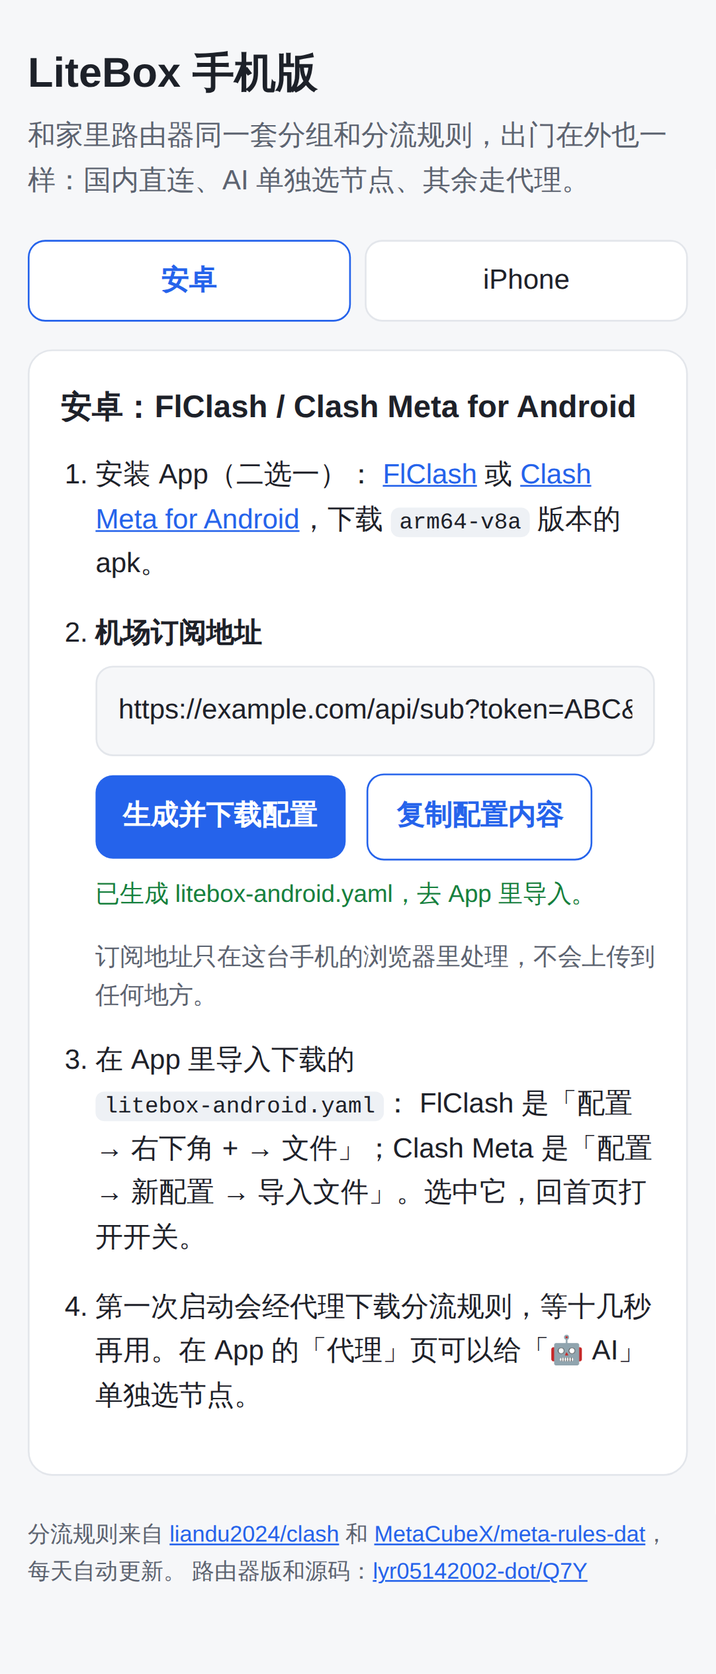
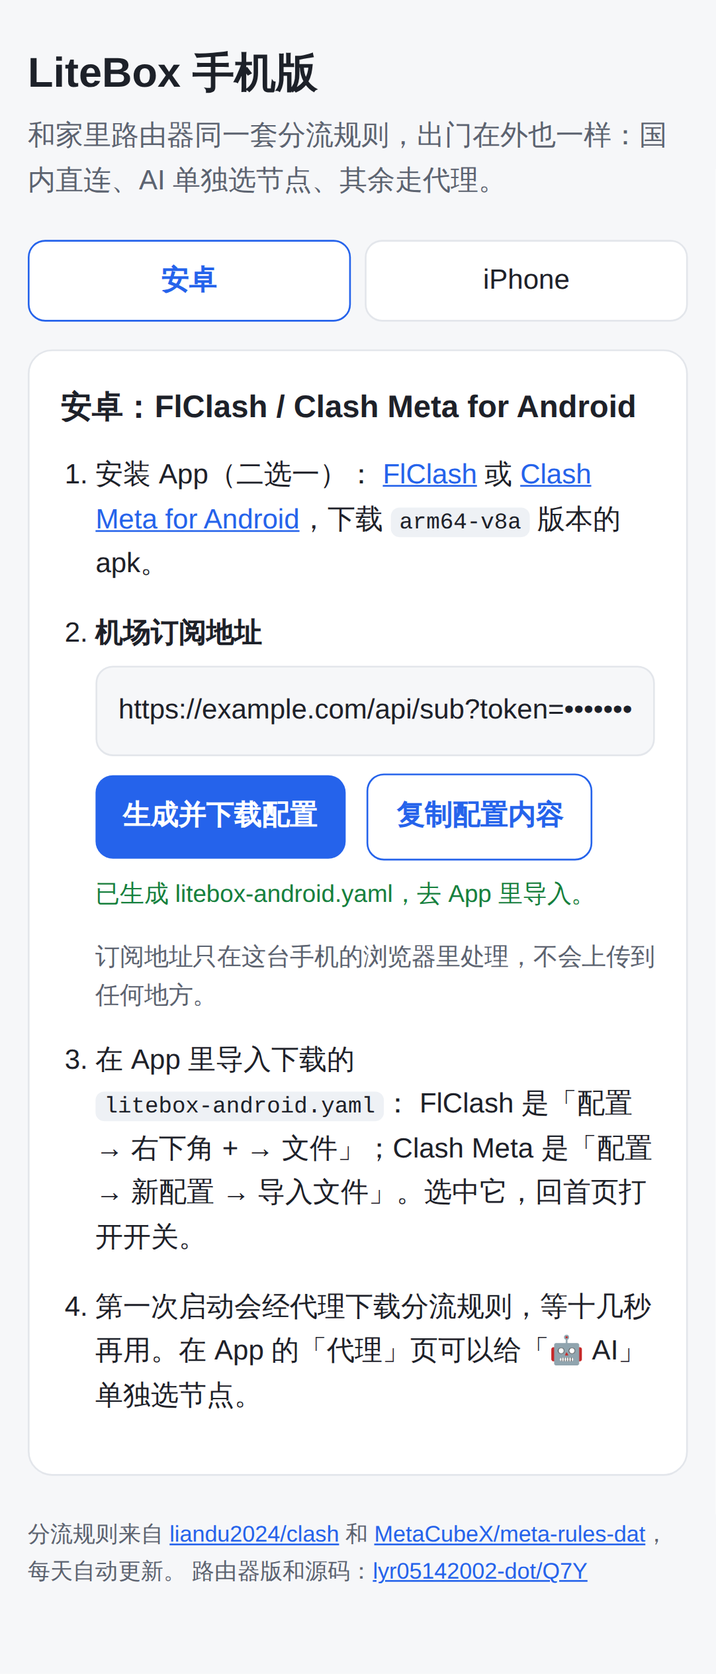
Claude latency card and per-node stability view; v0.6.1
- overview tests Claude instead of OpenAI, via the Claude group
- node stability: every node's success rate, average latency and last
  20 results against claude.ai (or Google / GitHub), using the core's
  group delay test and its per-URL history; marks the node in use and
  the most stable one, with a one-click switch
- CI checks that the page scripts parse and the LuCI JSON is valid
- refreshed screenshots; SSH fingerprint, sample secret and sample
  subscription in the tutorial images are masked

Claude-Session: https://claude.ai/code/session_01MXBvMrnfSJPeug5hYk6ttb

Changed region(s): [[0.0305, 0.0625, 0.9455, 0.125], [0.793, 0.4062, 0.8845, 0.4375]]

diff --git a/files/panel.html b/files/panel.html
@@ -108,6 +108,26 @@ section.box { background: var(--card); border: 1px solid var(--line); border-rad
 .chain .ar { color: var(--sub); }
 .tip { background: var(--bg); border-radius: 10px; padding: 10px 12px; color: var(--sub); font-size: 12.5px; margin-top: 12px; }
 .hide { display: none !important; }
+.seg { display: inline-flex; background: var(--bg); border-radius: 9px; padding: 3px; gap: 2px; }
+.seg button { border: 0; background: none; color: var(--sub); font: inherit; padding: 3px 12px; border-radius: 7px; cursor: pointer; }
+.seg button.on { background: var(--card); color: var(--text); font-weight: 700; box-shadow: 0 1px 2px rgba(0,0,0,.08); }
+.stab-sum { color: var(--sub); font-size: 13px; margin-bottom: 12px; line-height: 1.8; }
+.stab-sum b { color: var(--text); }
+.nodes { display: grid; grid-template-columns: repeat(2, 1fr); gap: 10px; }
+@media (max-width: 760px) { .nodes { grid-template-columns: 1fr; } }
+.node { border: 1px solid var(--line); border-radius: 12px; padding: 10px 12px; display: grid; grid-template-columns: 1fr auto; gap: 4px 10px; align-items: center; }
+.node.cur { border-color: var(--green); background: var(--green-bg); }
+.node .nm { font-weight: 600; min-width: 0; overflow: hidden; text-overflow: ellipsis; white-space: nowrap; }
+.node .nv { color: var(--sub); font-size: 12.5px; grid-column: 1 / -1; }
+.node .nv b { color: var(--text); }
+.node .btn { padding: 2px 10px; font-size: 12.5px; }
+.dots { display: flex; gap: 3px; flex-wrap: wrap; grid-column: 1 / -1; }
+.dots i { width: 11px; height: 11px; border-radius: 50%; background: var(--green); display: inline-block; }
+.dots i.mid { background: var(--amber); }
+.dots i.bad { background: var(--red); }
+.dots i.none { background: var(--line); }
+.site.pick { cursor: pointer; }
+.site.pick.on { border-color: var(--green); }
 section.box.sub { border: 2px solid var(--green); }
 section.box.sub.bad { border-color: var(--red); }
 .sub .row { display: flex; gap: 16px; align-items: center; flex-wrap: wrap; }
@@ -180,6 +200,19 @@ section.box.sub.bad { border-color: var(--red); }
 			</div>
 		</section>
 
+		<section class="box" id="stab">
+			<div class="hd">
+				<h2>节点稳定性</h2>
+				<div class="seg" id="stab-tabs"></div>
+				<label class="sw"><input type="checkbox" id="stab-auto" checked>页面开着时每 10 分钟测一次</label>
+				<div class="grow"></div>
+				<button class="btn" id="stab-test">测试全部节点</button>
+			</div>
+			<div class="stab-sum" id="stab-sum">读取中…</div>
+			<div class="nodes" id="stab-list"></div>
+			<div class="tip" id="stab-tip"></div>
+		</section>
+
 		<section class="box">
 			<div class="hd">
 				<h2>分流统计</h2>
@@ -236,11 +269,11 @@ const store = {
 	set(k, v) { try { localStorage.setItem("litebox." + k, JSON.stringify(v)); } catch (e) {} },
 };
 
-// 图标（Simple Icons，CC0）和分组用的简单图形
+// 图标：Simple Icons（CC0）；Claude 来自 LobeHub lobe-icons（MIT）
 const ICON = {
 	baidu: '<svg viewBox="0 0 24 24"><path fill="#2932e1" d="M9.154 0C7.71 0 6.54 1.658 6.54 3.707c0 2.051 1.171 3.71 2.615 3.71 1.446 0 2.614-1.659 2.614-3.71C11.768 1.658 10.6 0 9.154 0zm7.025.594C14.86.58 13.347 2.589 13.2 3.927c-.187 1.745.25 3.487 2.179 3.735 1.933.25 3.175-1.806 3.422-3.364.252-1.555-.995-3.364-2.362-3.674a1.218 1.218 0 0 0-.261-.03zM3.582 5.535a2.811 2.811 0 0 0-.156.008c-2.118.19-2.428 3.24-2.428 3.24-.287 1.41.686 4.425 3.297 3.864 2.617-.561 2.262-3.68 2.183-4.362-.125-1.018-1.292-2.773-2.896-2.75zm16.534 1.753c-2.308 0-2.617 2.119-2.617 3.616 0 1.43.121 3.425 2.988 3.362 2.867-.063 2.553-3.238 2.553-3.988 0-.745-.62-2.99-2.924-2.99zm-8.264 2.478c-1.424.014-2.708.925-3.323 1.947-1.118 1.868-2.863 3.05-3.112 3.363-.25.309-3.61 2.116-2.864 5.42.746 3.301 3.365 3.237 3.365 3.237s1.93.19 4.171-.31c2.24-.495 4.17.123 4.17.123s5.233 1.748 6.665-1.616c1.43-3.364-.808-5.109-.808-5.109s-2.99-2.306-4.736-4.798c-1.072-1.665-2.348-2.268-3.528-2.257zm-2.234 3.84l1.542.024v8.197H7.758c-1.47-.291-2.055-1.292-2.13-1.462-.072-.173-.488-.976-.268-2.343.635-2.049 2.447-2.196 2.447-2.196h1.81zm3.964 2.39v3.881c.096.413.612.488.612.488h1.614v-4.343h1.689v5.782h-3.915c-1.517-.39-1.59-1.465-1.59-1.465v-4.317zm-5.458 1.147c-.66.197-.978.708-1.05.928-.076.22-.247.78-.1 1.269.294 1.095 1.248 1.144 1.248 1.144h1.37v-3.34z"/></svg>',
 	google: '<svg viewBox="0 0 24 24"><path fill="#4285f4" d="M12.48 10.92v3.28h7.84c-.24 1.84-.853 3.187-1.787 4.133-1.147 1.147-2.933 2.4-6.053 2.4-4.827 0-8.6-3.893-8.6-8.72s3.773-8.72 8.6-8.72c2.6 0 4.507 1.027 5.907 2.347l2.307-2.307C18.747 1.44 16.133 0 12.48 0 5.867 0 .307 5.387.307 12s5.56 12 12.173 12c3.573 0 6.267-1.173 8.373-3.36 2.16-2.16 2.84-5.213 2.84-7.667 0-.76-.053-1.467-.173-2.053H12.48z"/></svg>',
-	ai: '<svg viewBox="0 0 24 24"><path fill="currentColor" fill-rule="evenodd" d="M9.205 8.658v-2.26c0-.19.072-.333.238-.428l4.543-2.616c.619-.357 1.356-.523 2.117-.523 2.854 0 4.662 2.212 4.662 4.566 0 .167 0 .357-.024.547l-4.71-2.759a.797.797 0 00-.856 0l-5.97 3.473zm10.609 8.8V12.06c0-.333-.143-.57-.429-.737l-5.97-3.473 1.95-1.118a.433.433 0 01.476 0l4.543 2.617c1.309.76 2.189 2.378 2.189 3.948 0 1.808-1.07 3.473-2.76 4.163zM7.802 12.703l-1.95-1.142c-.167-.095-.239-.238-.239-.428V5.899c0-2.545 1.95-4.472 4.591-4.472 1 0 1.927.333 2.712.928L8.23 5.067c-.285.166-.428.404-.428.737v6.898zM12 15.128l-2.795-1.57v-3.33L12 8.658l2.795 1.57v3.33L12 15.128zm1.796 7.23c-1 0-1.927-.332-2.712-.927l4.686-2.712c.285-.166.428-.404.428-.737v-6.898l1.974 1.142c.167.095.238.238.238.428v5.233c0 2.545-1.974 4.472-4.614 4.472zm-5.637-5.303l-4.544-2.617c-1.308-.761-2.188-2.378-2.188-3.948A4.482 4.482 0 014.21 6.327v5.423c0 .333.143.571.428.738l5.947 3.449-1.95 1.118a.432.432 0 01-.476 0zm-.262 3.9c-2.688 0-4.662-2.021-4.662-4.519 0-.19.024-.38.047-.57l4.686 2.71c.286.167.571.167.856 0l5.97-3.448v2.26c0 .19-.07.333-.237.428l-4.543 2.616c-.619.357-1.356.523-2.117.523zm5.899 2.83a5.947 5.947 0 005.827-4.756C22.287 18.339 24 15.84 24 13.296c0-1.665-.713-3.282-1.998-4.448.119-.5.19-.999.19-1.498 0-3.401-2.759-5.947-5.946-5.947-.642 0-1.26.095-1.88.31A5.962 5.962 0 0010.205 0a5.947 5.947 0 00-5.827 4.757C1.713 5.447 0 7.945 0 10.49c0 1.666.713 3.283 1.998 4.448-.119.5-.19 1-.19 1.499 0 3.401 2.759 5.946 5.946 5.946.642 0 1.26-.095 1.88-.309a5.96 5.96 0 004.162 1.713z"/></svg>',
+	claude: '<svg viewBox="0 0 24 24"><path fill="#d97757" d="M4.709 15.955l4.72-2.647.08-.23-.08-.128H9.2l-.79-.048-2.698-.073-2.339-.097-2.266-.122-.571-.121L0 11.784l.055-.352.48-.321.686.06 1.52.103 2.278.158 1.652.097 2.449.255h.389l.055-.157-.134-.098-.103-.097-2.358-1.596-2.552-1.688-1.336-.972-.724-.491-.364-.462-.158-1.008.656-.722.881.06.225.061.893.686 1.908 1.476 2.491 1.833.365.304.145-.103.019-.073-.164-.274-1.355-2.446-1.446-2.49-.644-1.032-.17-.619a2.97 2.97 0 01-.104-.729L6.283.134 6.696 0l.996.134.42.364.62 1.414 1.002 2.229 1.555 3.03.456.898.243.832.091.255h.158V9.01l.128-1.706.237-2.095.23-2.695.08-.76.376-.91.747-.492.584.28.48.685-.067.444-.286 1.851-.559 2.903-.364 1.942h.212l.243-.242.985-1.306 1.652-2.064.73-.82.85-.904.547-.431h1.033l.76 1.129-.34 1.166-1.064 1.347-.881 1.142-1.264 1.7-.79 1.36.073.11.188-.02 2.856-.606 1.543-.28 1.841-.315.833.388.091.395-.328.807-1.969.486-2.309.462-3.439.813-.042.03.049.061 1.549.146.662.036h1.622l3.02.225.79.522.474.638-.079.485-1.215.62-1.64-.389-3.829-.91-1.312-.329h-.182v.11l1.093 1.068 2.006 1.81 2.509 2.33.127.578-.322.455-.34-.049-2.205-1.657-.851-.747-1.926-1.62h-.128v.17l.444.649 2.345 3.521.122 1.08-.17.353-.608.213-.668-.122-1.374-1.925-1.415-2.167-1.143-1.943-.14.08-.674 7.254-.316.37-.729.28-.607-.461-.322-.747.322-1.476.389-1.924.315-1.53.286-1.9.17-.632-.012-.042-.14.018-1.434 1.967-2.18 2.945-1.726 1.845-.414.164-.717-.37.067-.662.401-.589 2.388-3.036 1.44-1.882.93-1.086-.006-.158h-.055L4.132 18.56l-1.13.146-.487-.456.061-.746.231-.243 1.908-1.312-.006.006z"/></svg>',
 	github: '<svg viewBox="0 0 24 24"><path fill="currentColor" d="M12 .297c-6.63 0-12 5.373-12 12 0 5.303 3.438 9.8 8.205 11.385.6.113.82-.258.82-.577 0-.285-.01-1.04-.015-2.04-3.338.724-4.042-1.61-4.042-1.61C4.422 18.07 3.633 17.7 3.633 17.7c-1.087-.744.084-.729.084-.729 1.205.084 1.838 1.236 1.838 1.236 1.07 1.835 2.809 1.305 3.495.998.108-.776.417-1.305.76-1.605-2.665-.3-5.466-1.332-5.466-5.93 0-1.31.465-2.38 1.235-3.22-.135-.303-.54-1.523.105-3.176 0 0 1.005-.322 3.3 1.23.96-.267 1.98-.399 3-.405 1.02.006 2.04.138 3 .405 2.28-1.552 3.285-1.23 3.285-1.23.645 1.653.24 2.873.12 3.176.765.84 1.23 1.91 1.23 3.22 0 4.61-2.805 5.625-5.475 5.92.42.36.81 1.096.81 2.22 0 1.606-.015 2.896-.015 3.286 0 .315.21.69.825.57C20.565 22.092 24 17.592 24 12.297c0-6.627-5.373-12-12-12"/></svg>',
 	youtube: '<svg viewBox="0 0 24 24"><path fill="#ff0000" d="M23.498 6.186a3.016 3.016 0 0 0-2.122-2.136C19.505 3.545 12 3.545 12 3.545s-7.505 0-9.377.505A3.017 3.017 0 0 0 .502 6.186C0 8.07 0 12 0 12s0 3.93.502 5.814a3.016 3.016 0 0 0 2.122 2.136c1.871.505 9.376.505 9.376.505s7.505 0 9.377-.505a3.015 3.015 0 0 0 2.122-2.136C24 15.93 24 12 24 12s0-3.93-.502-5.814zM9.545 15.568V8.432L15.818 12l-6.273 3.568z"/></svg>',
 };
@@ -249,7 +282,7 @@ const ICON = {
 const SITES = [
 	{ id: "baidu", name: "百度", url: "https://www.baidu.com", via: ["DIRECT"] },
 	{ id: "google", name: "Google", url: "https://www.google.com/generate_204", via: ["Google", "🚀 节点选择", "GLOBAL"] },
-	{ id: "ai", name: "OpenAI", url: "https://chatgpt.com/favicon.ico", via: ["ChatGPT", "🤖 AI", "🚀 节点选择", "GLOBAL"] },
+	{ id: "claude", name: "Claude", url: "https://claude.ai", via: ["Claude", "🤖 AI", "🚀 节点选择", "GLOBAL"] },
 	{ id: "github", name: "GitHub", url: "https://github.com", via: ["GitHub", "🚀 节点选择", "GLOBAL"] },
 ];
 
@@ -330,6 +363,7 @@ async function start() {
 	setInterval(() => { if (!document.hidden) loadTraffic(); }, 300000);
 	loadSub();
 	setInterval(() => { if (!document.hidden) loadSub(); }, 60000);
+	stabInit();
 	$("#sub-update").onclick = async () => {
 		$("#sub-update").disabled = true;
 		$("#sub-state").textContent = "正在更新…";
@@ -373,12 +407,13 @@ async function loadSub() {
 // ---------- 站点延迟 ----------
 function renderSites() {
 	$("#sites").innerHTML = SITES.map((s) => `
-		<div class="card site" id="site-${s.id}">
+		<div class="card site${STAB[s.id] ? " pick" : ""}" id="site-${s.id}"${STAB[s.id] ? ` title="点一下看每个节点访问 ${esc(s.name)} 的稳定性"` : ""}>
 			<div class="ic">${ICON[s.id]}</div>
 			<div class="spark"></div>
 			<div class="val"><small>${esc(s.name)}</small><span>-</span></div>
 		</div>`).join("");
 	SITES.forEach(drawSite);
+	SITES.forEach((s) => { if (STAB[s.id]) $("#site-" + s.id).onclick = () => { stabTab(s.id); $("#stab").scrollIntoView({ behavior: "smooth" }); }; });
 }
 
 function drawSite(s) {
@@ -418,6 +453,141 @@ async function testSites() {
 	}));
 	testing = false;
 	$("#testnow").disabled = false;
+}
+
+// ---------- 节点稳定性：每个节点访问某个网站的成功率和延迟 ----------
+// 用内核的分组测速接口让分组里每个节点各访问一次（只取响应头）；内核按网址给每个节点记最近 10 次结果，
+// 换设备打开也看得到。这台浏览器再多存一些（每个节点最多 30 次），看得更长
+const STAB = {
+	claude: { name: "Claude", url: "https://claude.ai", via: ["Claude", "🤖 AI", "🚀 节点选择", "GLOBAL"] },
+	google: { name: "Google", url: "https://www.google.com/generate_204", via: ["Google", "🚀 节点选择", "GLOBAL"] },
+	github: { name: "GitHub", url: "https://github.com", via: ["GitHub", "🚀 节点选择", "GLOBAL"] },
+};
+const STAB_EVERY = 10 * 60 * 1000;
+let stabCur = "claude", stabBusy = false;
+
+function stabInit() {
+	stabCur = STAB[store.get("stab.tab", "claude")] ? store.get("stab.tab", "claude") : "claude";
+	$("#stab-tabs").innerHTML = Object.entries(STAB).map(([id, t]) => `<button data-id="${id}">${esc(t.name)}</button>`).join("");
+	$("#stab-tabs").onclick = (e) => { const id = e.target.dataset && e.target.dataset.id; if (id) stabTab(id); };
+	$("#stab-auto").checked = store.get("stab.auto", true);
+	$("#stab-auto").onchange = () => store.set("stab.auto", $("#stab-auto").checked);
+	$("#stab-test").onclick = () => stabTest();
+	$("#stab-list").onclick = async (e) => {
+		const name = e.target.dataset && e.target.dataset.use;
+		if (!name) return;
+		e.target.disabled = true;
+		try { await api(`../../proxies/${encodeURIComponent(stabGroup())}`, { method: "PUT", headers: { "Content-Type": "application/json" }, body: JSON.stringify({ name }) }); }
+		catch (err) { alert("切换失败：" + err.message); }
+		stabLoad();
+	};
+	stabTab(stabCur);
+	setInterval(() => { if ($("#stab-auto").checked && !document.hidden) stabMaybeTest(); }, 60000);
+}
+
+function stabGroup() { return STAB[stabCur].via.find((g) => groups.has(g)) || "GLOBAL"; }
+
+async function stabTab(id) {
+	stabCur = id;
+	store.set("stab.tab", id);
+	document.querySelectorAll("#stab-tabs button").forEach((b) => b.classList.toggle("on", b.dataset.id === id));
+	SITES.forEach((s) => { const el = $("#site-" + s.id); if (el) el.classList.toggle("on", s.id === id); });
+	const t = STAB[id];
+	$("#stab-tip").innerHTML = `每次测试让「${esc(stabGroup())}」分组里的每个节点各访问一次 <span class="mono">${esc(t.url)}</span>，只取响应头，每个节点几 KB 流量。` +
+		"点「用这个」会把这个分组直接切到那个节点（不再跟随上级分组，想恢复在面板里选回去）。" +
+		"绿色正常，黄色慢（超过 1 秒），红色失败，灰色还没测。";
+	await stabLoad();
+	if ($("#stab-auto").checked) stabMaybeTest();
+}
+
+// 合并内核里的记录和本机存的记录，返回 { 节点名: [[时间毫秒, 延迟], ...] }
+function stabMerge(nodes) {
+	const key = "stab." + stabCur, url = STAB[stabCur].url;
+	const saved = store.get(key, {});
+	const out = {};
+	for (const n of nodes) {
+		const list = (saved[n.name] || []).slice();
+		const have = new Set(list.map((x) => x[0]));
+		const h = (n.extra && n.extra[url] && n.extra[url].history) || [];
+		for (const x of h) {
+			const t = Date.parse(x.time);
+			if (t && !have.has(t)) list.push([t, x.delay || 0]);
+		}
+		list.sort((a, b) => a[0] - b[0]);
+		out[n.name] = list.slice(-30);
+	}
+	store.set(key, out);
+	return out;
+}
+
+let stabLast = 0;
+async function stabLoad() {
+	let p, all;
+	try { [p, all] = await Promise.all([api("../../providers/proxies/sub"), api("../../proxies")]); }
+	catch (e) { $("#stab-sum").textContent = "读取节点失败：" + e.message; return; }
+	const nodes = p.proxies || [];
+	const data = stabMerge(nodes);
+	const prox = all.proxies || {};
+	groups = new Set(Object.keys(prox));
+	// 分组现在实际用的节点（分组套分组时一路找下去）
+	const group = stabGroup();
+	let cur = group, guard = 0;
+	while (prox[cur] && prox[cur].now && guard++ < 8) cur = prox[cur].now;
+	stabLast = 0;
+	const rows = nodes.map((n) => {
+		const h = data[n.name] || [];
+		const ok = h.filter((x) => x[1] > 0);
+		if (h.length) stabLast = Math.max(stabLast, h[h.length - 1][0]);
+		return {
+			name: n.name, h,
+			rate: h.length ? ok.length / h.length : -1,
+			avg: ok.length ? Math.round(ok.reduce((a, x) => a + x[1], 0) / ok.length) : 0,
+			last: h.length ? h[h.length - 1][1] : null,
+		};
+	});
+	rows.sort((a, b) => (b.rate - a.rate) || ((a.avg || 1e9) - (b.avg || 1e9)) || a.name.localeCompare(b.name));
+	const pct = (r) => (r < 0 ? "-" : Math.round(r * 100) + "%");
+	const tested = rows.filter((r) => r.rate >= 0);
+	const okNow = rows.filter((r) => r.last > 0).length;
+	const curRow = rows.find((r) => r.name === cur);
+	const best = tested.find((r) => r.rate > 0);
+	const t = STAB[stabCur];
+	let sum = `共 <b>${rows.length}</b> 个节点`;
+	if (tested.length) sum += `，最近一次 <b>${okNow}</b> 个能打开 ${esc(t.name)}`;
+	if (stabLast) sum += `（${new Date(stabLast).toLocaleTimeString("zh-CN", { hour12: false })} 测的）`;
+	sum += `。<br>${esc(t.name)} 现在走：<b>${esc(cur)}</b>`;
+	if (curRow && curRow.rate >= 0) sum += `（成功率 ${pct(curRow.rate)}，平均 ${curRow.avg || "-"} ms）`;
+	if (best && best.name !== cur) sum += `；最稳的是 <b>${esc(best.name)}</b>（${pct(best.rate)}，平均 ${best.avg} ms）`;
+	if (!tested.length) sum += "。还没测过，点右上角「测试全部节点」。";
+	$("#stab-sum").innerHTML = sum;
+	$("#stab-list").innerHTML = rows.map((r) => {
+		const dots = r.h.slice(-20).map((x) => `<i class="${x[1] > 0 ? (x[1] > 1000 ? "mid" : "") : "bad"}" title="${new Date(x[0]).toLocaleString("zh-CN", { hour12: false })}  ${x[1] > 0 ? x[1] + " ms" : "失败"}"></i>`).join("") ||
+			'<i class="none"></i>'.repeat(10);
+		const isCur = r.name === cur;
+		return `<div class="node${isCur ? " cur" : ""}">
+			<div class="nm">${esc(r.name)}${isCur ? ' <span class="tag g">当前</span>' : ""}</div>
+			${isCur ? "<span></span>" : `<button class="btn" data-use="${esc(r.name)}">用这个</button>`}
+			<div class="dots">${dots}</div>
+			<div class="nv">成功率 <b>${pct(r.rate)}</b>（${r.h.filter((x) => x[1] > 0).length}/${r.h.length} 次） · 平均 <b>${r.avg ? r.avg + " ms" : "-"}</b> · 最近 ${r.last === null ? "-" : r.last > 0 ? r.last + " ms" : '<span style="color:var(--red)">失败</span>'}</div>
+		</div>`;
+	}).join("") || '<div class="empty">订阅里还没有节点</div>';
+}
+
+function stabMaybeTest() { if (Date.now() - stabLast > STAB_EVERY) stabTest(); }
+
+async function stabTest() {
+	if (stabBusy) return;
+	stabBusy = true;
+	const btn = $("#stab-test");
+	btn.disabled = true;
+	btn.textContent = "测试中…";
+	const t = STAB[stabCur];
+	try { await api(`../../group/${encodeURIComponent(stabGroup())}/delay?url=${encodeURIComponent(t.url)}&timeout=5000`); }
+	catch (e) { /* 全部失败时接口返回错误，结果照样记在每个节点上 */ }
+	await stabLoad();
+	btn.disabled = false;
+	btn.textContent = "测试全部节点";
+	stabBusy = false;
 }
 
 // ---------- 实时曲线（一条 /connections 推送就够：总量、连接、内存都有） ----------

diff --git a/docs/img/src/03-install.html b/docs/img/src/03-install.html
@@ -30,9 +30,9 @@
 
 [litebox] <span class="g">安装完成，已启动。</span>
 
-  一键登录面板：<span class="y">http://192.168.8.1:9090/ui/#/setup?hostname=192.168.8.1&amp;port=9090&amp;secret=a1b2c3d4e5f6a7b8c9d0e1f2</span>
-  （复制到浏览器打开即可。手动登录时：主机 192.168.8.1，端口 9090，密码 a1b2c3d4e5f6a7b8c9d0e1f2）
-  概览和路由测试：http://192.168.8.1:9090/ui/litebox/#secret=a1b2c3d4e5f6a7b8c9d0e1f2
+  一键登录面板：<span class="y">http://192.168.8.1:9090/ui/#/setup?hostname=192.168.8.1&amp;port=9090&amp;secret=a1b2••••••••••••••••••••</span>
+  （复制到浏览器打开即可。手动登录时：主机 192.168.8.1，端口 9090，密码 a1b2••••••••••••••••••••）
+  概览和路由测试：http://192.168.8.1:9090/ui/litebox/#secret=a1b2••••••••••••••••••••
   改订阅、看状态：路由器后台 → 服务 → LiteBox
 <span class="ann">⬆ <b>复制「一键登录面板」这条链接</b>，粘贴到手机或电脑浏览器，进入面板（第 3 步）</span></pre>
 </div>

diff --git a/docs/img/src/02-login.html b/docs/img/src/02-login.html
@@ -16,7 +16,7 @@
     <div class="term win rel"><div class="bar">Windows PowerShell</div>
 <pre>PS C:\Users\你&gt; <span class="w">ssh root@192.168.8.1</span>
 The authenticity of host '192.168.8.1 (192.168.8.1)' can't be established.
-ED25519 key fingerprint is SHA256:qdIR+KAlqZI+…
+ED25519 key fingerprint is SHA256:••••••••••••••••（每台路由器不一样）
 Are you sure you want to continue connecting (yes/no/[fingerprint])? <span class="w">yes</span>
 <span class="ann">⬆ 输入 <b>yes</b> 回车</span>
 root@192.168.8.1's password: <span class="ann">⬅ 输入后台密码，<b>输入时不显示</b>，输完回车</span>

diff --git a/docs/img/src/offline-1-download.html b/docs/img/src/offline-1-download.html
@@ -18,7 +18,7 @@
 <p style="margin:0 0 10px">打开仓库首页右侧的 <b>Releases</b>（或 github.com/lyr05142002-dot/Q7Y/releases），在最新版本的 <b>Assets</b> 里下载 <b>litebox-arm64-offline.zip</b>：</p>
 <div class="rel">
 <div class="gh">
-  <div class="title"><b>LiteBox v0.6.0</b><span class="latest">Latest</span></div>
+  <div class="title"><b>LiteBox v0.6.1</b><span class="latest">Latest</span></div>
   <div class="assets">
     <div class="hd">Assets<span>8</span></div>
     <div class="a hl"><span class="n">📦 litebox-arm64-offline.zip</span><span class="h mono">内核 + 面板 + 脚本</span><span class="s">22.5 MB</span></div>

diff --git a/README.md b/README.md
@@ -25,7 +25,7 @@
 - **国内流量不进内核**：国内网站直接从 WAN 出去，不占代理的 CPU，还能用上路由器的硬件加速；境外 TCP 走 iptables 转发，比 TUN 省约 70% CPU
 - **省内存**：只有一个 mihomo 进程，常驻约 50MB，大流量下也不涨；超过上限自动重启
 - **分流规则现成的**：用[视频作者](https://youtu.be/G_7AmjfSRQ8)的[域名集](https://github.com/liandu2024/clash/tree/main/list)，每天自动更新；ChatGPT / Claude / Gemini / Grok 等走单独的 🤖 AI 分组
-- **概览和路由测试页**：四个站点的延迟走势、连接 / 内存 / 流量实时曲线、规则命中统计、按月流量；输入域名就能看它实际走哪条线路、DNS 怎么解析、命中哪条规则
+- **概览和路由测试页**：四个站点的延迟走势、每个节点访问 Claude 的稳定性、连接 / 内存 / 流量实时曲线、规则命中统计、按月流量；输入域名就能看它实际走哪条线路、DNS 怎么解析、命中哪条规则
 - **手机版**：安卓、iPhone 用同一套规则，出门在外也一样分流
 - **出问题能自救**：`litebox doctor` 一键自检、`litebox direct` 一键恢复直连；内核起不来时看门狗自动恢复 DNS，不会全家断网
 - **下载安全**：内核和面板锁定版本、校验 SHA256；每次发布前自动在 OpenWrt 21.02 里完整装一遍测试
@@ -210,12 +210,17 @@ litebox sub '你的订阅地址'
 
 安装完还会显示一个**概览和路由测试**链接（`litebox panel` 也能看到），形如 `http://192.168.8.1:9090/ui/litebox/#secret=面板密码`。面板顶部的「节点 · 连接」可以跳回 zashboard。
 
-- **概览**：百度 / Google / OpenAI / GitHub 的延迟和最近 24 次走势（分别经直连和 Google、ChatGPT、GitHub 分组测，和平时访问走同一条线）；连接数、内存、上下行速率的实时曲线；规则命中排行和代理 / 直连占比；按月、按天的流量
+- **概览**：机场订阅卡片（节点数、套餐流量、到期日）；百度 / Google / Claude / GitHub 的延迟和最近 24 次走势（分别经直连和 Google、Claude、GitHub 分组测，和平时访问走同一条线）；连接数、内存、上下行速率的实时曲线；规则命中排行和代理 / 直连占比；按月、按天的流量
+- **节点稳定性**：每个节点访问 Claude（也能切到 Google、GitHub）的成功率、平均延迟和最近 20 次结果，一个点一次：绿色正常、黄色慢（超过 1 秒）、红色失败。标出当前在用的节点和最稳的节点，点「用这个」就把 Claude 分组切过去。页面开着时每 10 分钟自动测一次，也可以点「测试全部节点」；点概览里的 Claude 卡片也会跳到这里
 - **路由测试**：输入域名，浏览器真实访问一次，页面从内核记录里找出这次访问的 DNS 方式、进入内核的方式、命中的规则和完整线路。正在看页面的这台手机或电脑本身就是局域网终端，所以不用另外模拟设备
 
 ![路由测试](docs/img/13-route-test.png)
 
-<details><summary>概览页截图（测试环境只放行了 GitHub，所以另外三个站点显示超时）</summary>
+![节点稳定性](docs/img/16-stability.png)
+
+<sub>每次测试让分组里的每个节点各访问一次网站，只取响应头，每个节点几 KB 流量。最近 10 次结果记在路由器内核里，换手机、电脑打开也看得到；更早的存在这台设备的浏览器里。截图来自测试环境，节点是演示数据。</sub>
+
+<details><summary>概览页截图（测试环境不通百度和 Google，所以这两个显示超时）</summary>
 
 ![概览](docs/img/14-overview.png)
 

diff --git a/docs/releases/v0.6.1.md b/docs/releases/v0.6.1.md
@@ -1,0 +1,29 @@
+## v0.6.1 更新
+
+- **概览页的 OpenAI 换成 Claude**：延迟经「Claude」分组测，和平时访问 Claude 走同一条线
+- **新增「节点稳定性」**：每个节点访问 Claude 的成功率、平均延迟和最近 20 次结果（一个点一次：绿色正常、黄色慢、红色失败），也能切到 Google、GitHub 看
+  - 标出 Claude 现在实际走的节点和最稳的节点；点「用这个」直接把 Claude 分组切到那个节点
+  - 页面开着时每 10 分钟自动测一次，也可以手动「测试全部节点」；每次每个节点只取一次响应头，几 KB 流量
+  - 最近 10 次结果记在路由器内核里，换设备打开也看得到；更早的存在本机浏览器里
+  - 点概览里的 Claude 卡片会跳到这里
+- 发布前多检查一项：概览页和路由器后台页面的脚本能正常解析
+- 图文更新：截图换成新版界面；教程配图里的 SSH 指纹、示例密码、示例订阅地址都打了码
+
+**从 v0.6.0 升级**：执行 `litebox update`（不用 `--reset-config`，分组没变）。
+
+## 下载哪个
+
+| 文件 | 说明 |
+|---|---|
+| **litebox-arm64-offline.zip** | **推荐**。已带 mihomo 内核和面板，路由器连不上 GitHub 也能装。适用于 aarch64 路由器（GL-MT3600BE 等） |
+| litebox.zip | 只有脚本，安装时联网下载内核和面板，支持 aarch64 / armv7 / x86_64 |
+| litebox.tar.gz | 给路由器上的一键安装命令（`get.sh`）用，一般不用手动下载 |
+| mihomo-v1.19.31-source.tar.gz | mihomo v1.19.31 源码（GPL-3.0 要求随二进制提供），安装用不到 |
+
+每个文件都附有 `.sha256` 校验文件。完整的图文教程见 [README](https://github.com/lyr05142002-dot/Q7Y#图文安装教程)。
+
+## 包含的组件
+
+- mihomo **v1.19.31**（GPL-3.0）
+- zashboard **v3.29.1**（MIT，无字体版）
+- 内核和面板都锁定版本，安装时校验 SHA256
